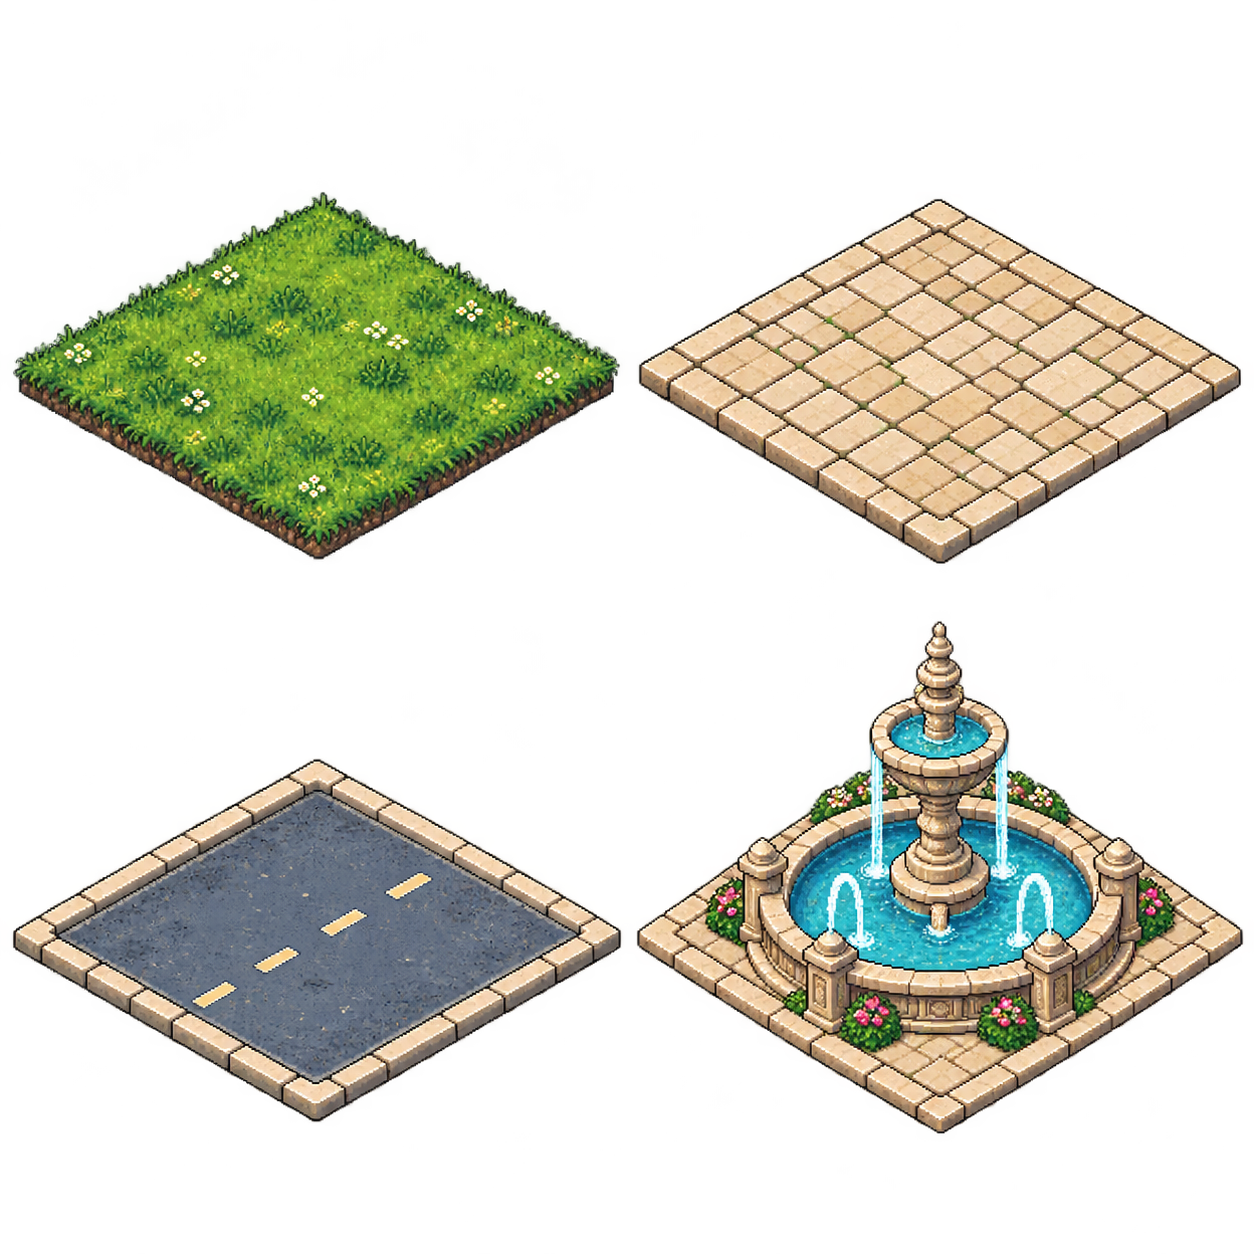
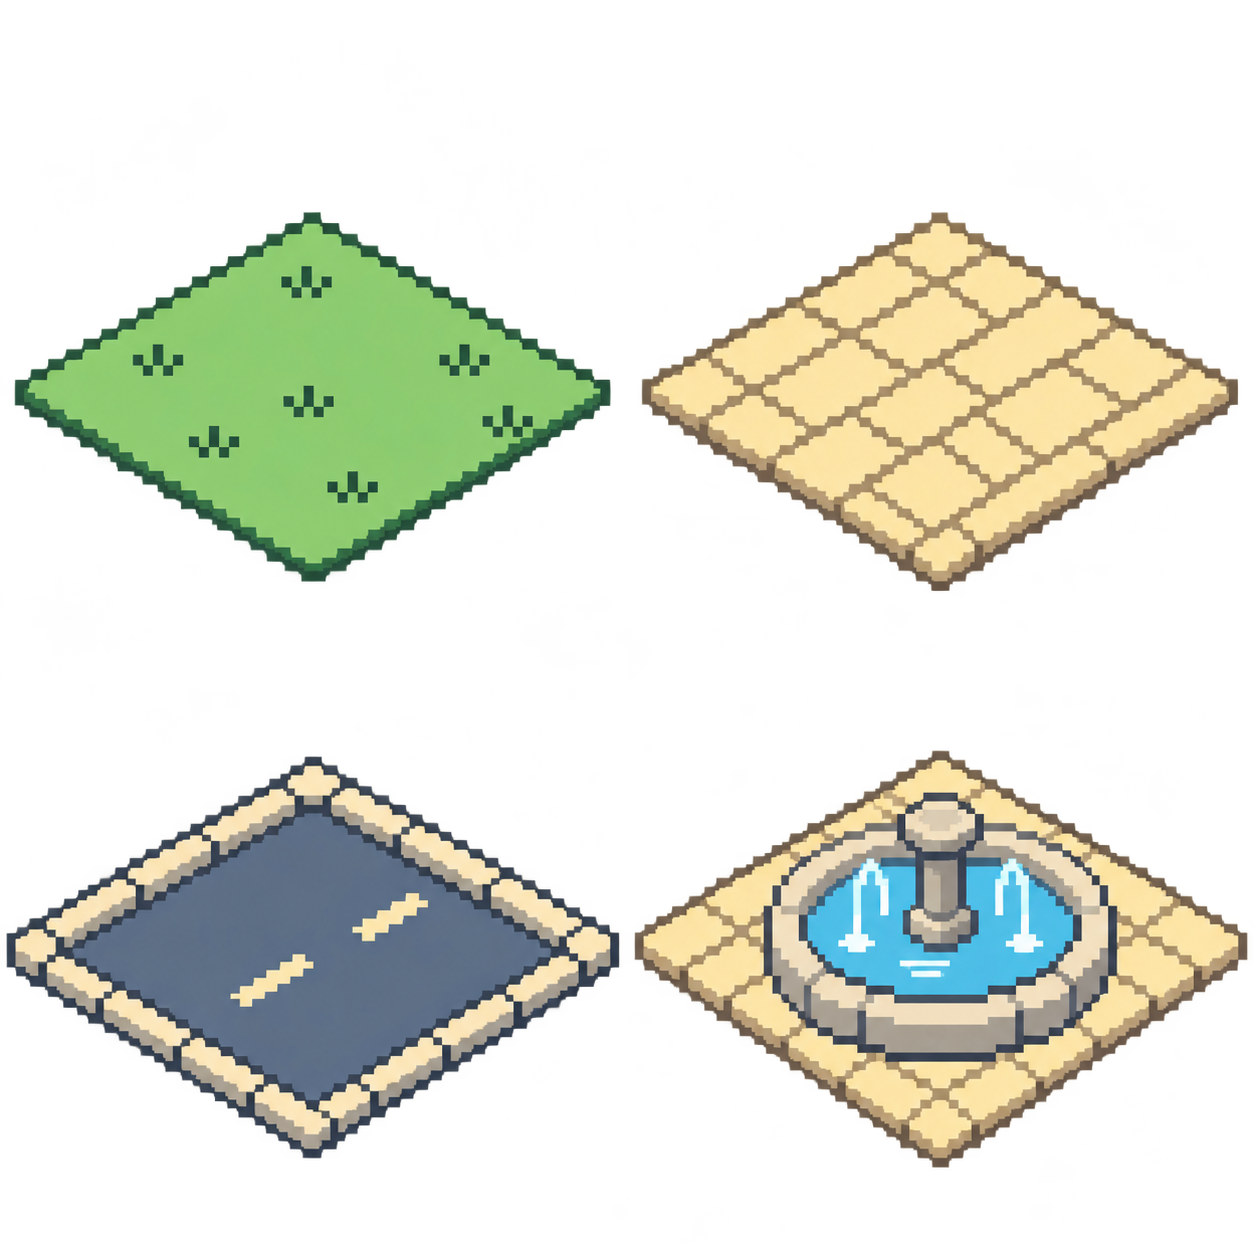
Simplify city artwork toward handheld RPG sprites (#6)

Changed region(s): [[0.0, 0.4976, 0.9952, 0.933], [0.0, 0.1555, 0.9952, 0.4665]]

diff --git a/public/atlas.js b/public/atlas.js
@@ -4,39 +4,39 @@ const staffAtlas=typeof Image==='undefined'?null:new Image();
 const groundAtlas=typeof Image==='undefined'?null:new Image();
 if(staffAtlas)staffAtlas.src='/assets/staff-atlas.png';
 if(groundAtlas)groundAtlas.src='/assets/ground-atlas.png';
-if (atlas) atlas.src = '/assets/city-atlas.png';
+if (atlas) atlas.src = '/assets/building-atlas.png';
+// Source bounds measured from the transparent atlases; generated art is not assumed
+// to stay inside equal cells. These rectangles prevent neighboring sprites bleeding.
+const STAFF_FRAMES=[
+ [78,59,187,289],[374,75,185,273],[688,51,183,298],[983,75,188,273],
+ [74,373,213,283],[370,381,204,275],[686,369,183,287],[988,374,178,282],
+ [60,671,201,280],[384,671,176,280],[680,671,191,280],[975,679,203,272],
+ [77,963,182,272],[372,962,219,273],[667,966,225,269],[988,964,182,271]
+];
+const BUILDING_FRAMES=[
+ [28,101,391,323],[467,110,404,317],[898,94,366,349],[1333,114,387,333],
+ [43,467,355,378],[470,467,341,378],[840,467,458,378],[1320,501,442,347]
+];
+function buildingIndex(o){return o.kind==='house'?Math.abs(o.x+o.y)%3:o.kind==='office'?4+Math.abs(o.x)%2:o.service==='university'?6:o.service==='talents'?3:7;}
+export function atlasBuildingHeight(o,width){const frame=BUILDING_FRAMES[buildingIndex(o)];return width*frame[3]/frame[2];}
 export function drawAtlasAgent(ctx, x, y, appearance, dir, walk, scale) {
   if(Number.isInteger(appearance.spriteIndex)&&staffAtlas?.complete&&staffAtlas.naturalWidth){
     // Cell zero is reserved exclusively for the human player's identity.
     const index=appearance.player?0:appearance.spriteIndex===0?15:Math.max(1,Math.min(15,appearance.spriteIndex));
-    const cw=staffAtlas.naturalWidth/4,ch=staffAtlas.naturalHeight/4;
+    const [sx,sy,sw,sh]=STAFF_FRAMES[index];
     const bob=walk?Math.sin(walk*Math.PI)*1.2*scale:0;
     ctx.save();ctx.imageSmoothingEnabled=false;ctx.translate(Math.round(x),Math.round(y+24*scale+bob));
     if(dir==='right')ctx.scale(-1,1);
-    ctx.drawImage(staffAtlas,(index%4)*cw,Math.floor(index/4)*ch,cw,ch,-24*scale,-52*scale,48*scale,52*scale);
+    ctx.drawImage(staffAtlas,sx,sy,sw,sh,-16*scale,-40*scale,32*scale,40*scale);
     ctx.restore();return true;
   }
-  if (!atlas?.complete || !atlas.naturalWidth) return false;
-  const row = Math.abs(Number(appearance.hair || 0) + Number(appearance.skinTone || 0)) % 6;
-  const frame = Math.abs(Math.floor(walk)) % 3;
-  const column = (dir === 'up' ? 6 : dir === 'left' || dir === 'right' ? 3 : 0) + frame;
-  const left = [80,230,380,530,680,830,1010,1160,1310][column];
-  ctx.save();
-  ctx.imageSmoothingEnabled = false;
-  ctx.translate(Math.round(x), Math.round(y + 24 * scale));
-  if (dir === 'right') ctx.scale(-1, 1);
-  ctx.drawImage(atlas, left, row * 106, 140, 106, -22 * scale, -48 * scale, 44 * scale, 48 * scale);
-  ctx.restore();
-  return true;
+  return false;
 }
+
 export function drawAtlasBuilding(ctx, o, center, width) {
   if (!atlas?.complete || !atlas.naturalWidth) return false;
-  const index = o.kind === 'house' ? Math.abs(o.x + o.y) % 3
-    : o.kind === 'office' ? 4 + Math.abs(o.x) % 2
-    : o.service === 'university' ? 6 : o.service === 'talents' ? 3 : 7;
-  const col = index % 4, row = Math.floor(index / 4);
-  const source = {x:80 + col * 350, y:row ? 814 : 630, w:330, h:row ? 210 : 198};
-  const height = width * source.h / source.w;
+  const [x,y,w,h]=BUILDING_FRAMES[buildingIndex(o)];
+  const source={x,y,w,h},height=atlasBuildingHeight(o,width);
   ctx.save();ctx.imageSmoothingEnabled = false;
   ctx.drawImage(atlas, source.x, source.y, source.w, source.h,
     Math.round(center.x - width / 2), Math.round(center.y - height + 10), Math.round(width), Math.round(height));
@@ -46,20 +46,19 @@ export function drawAtlasBuilding(ctx, o, center, width) {
 // Diamond textures are clipped to logical footprints, preventing gaps and overlap.
 export function drawAtlasGround(ctx,type,points,texturePoints=points){
  if(!groundAtlas?.complete||!groundAtlas.naturalWidth||!['grass','path'].includes(type))return false;
- const cw=groundAtlas.naturalWidth/2,ch=groundAtlas.naturalHeight/2;
- const col=type==='path'?1:0,row=type==='road'?1:0;
+ const source=type==='grass'?[175,310,260,180]:[642,212,596,379];
  const minX=Math.min(...texturePoints.map(p=>p.x)),maxX=Math.max(...texturePoints.map(p=>p.x));
  const minY=Math.min(...texturePoints.map(p=>p.y)),maxY=Math.max(...texturePoints.map(p=>p.y));
  ctx.save();ctx.beginPath();ctx.moveTo(points[0].x,points[0].y);for(const p of points.slice(1))ctx.lineTo(p.x,p.y);ctx.closePath();ctx.clip();
  ctx.imageSmoothingEnabled=false;
- // The generated diamonds occupy x=1..99%, y=30..89% of each source cell.
- ctx.drawImage(groundAtlas,col*cw+cw*.01,row*ch+ch*.30,cw*.98,ch*.59,minX-1,minY-1,maxX-minX+2,maxY-minY+2);
+ // Grass uses the seamless interior of its texture, avoiding dark patch borders.
+ ctx.drawImage(groundAtlas,...source,minX-1,minY-1,maxX-minX+2,maxY-minY+2);
  ctx.restore();return true;
 }
 export function drawAtlasFountain(ctx,center,width){
  if(!groundAtlas?.complete||!groundAtlas.naturalWidth)return false;
- const cw=groundAtlas.naturalWidth/2,ch=groundAtlas.naturalHeight/2,height=width*.87;
+ const height=width*417/613;
  ctx.save();ctx.imageSmoothingEnabled=false;
- ctx.drawImage(groundAtlas,cw,ch,cw,ch,center.x-width/2,center.y-height+width*.25,width,height);
+ ctx.drawImage(groundAtlas,635,751,613,417,center.x-width/2,center.y-height+width*.25,width,height);
  ctx.restore();return true;
 }

diff --git a/public/isometric.js b/public/isometric.js
@@ -1,4 +1,4 @@
-import {drawAtlasBuilding,drawAtlasGround,drawAtlasFountain} from './atlas.js';
+import {drawAtlasBuilding,drawAtlasGround,drawAtlasFountain,atlasBuildingHeight} from './atlas.js';
 // SanTTos Agent City — projeção isométrica original 2:1.
 // O tile lógico agora é 68 × 52; o mapa do editor e as salas 2D são preservados.
 export const ISO={tileWidth:34,tileHeight:17,originX:530,originY:92};
@@ -10,7 +10,7 @@ function pointInside(poly_,p){let inside=false;for(let i=0,j=poly_.length-1;i<po
 export function hitIsoObject(objects,px,py){
   // Primeiro os mais à frente; permite clicar no telhado e fachada, além do tile de base.
   for(const o of [...objects].sort((a,b)=>(b.x+b.y+b.w+b.h)-(a.x+a.y+a.w+a.h))){
-    const height=o.kind==='service'?Math.max(115,(o.w+o.h)*ISO.tileWidth/2*.64):o.kind==='office'?Math.max(95,(o.w+o.h)*ISO.tileWidth/2*.64):o.kind==='house'?Math.max(80,(o.w+o.h)*ISO.tileWidth/2*.60):o.kind==='tree'?37:o.kind==='lamp'?25:0;
+    const height=o.kind==='service'?Math.max(115,(o.w+o.h)*ISO.tileWidth/2*.90):o.kind==='office'?Math.max(95,(o.w+o.h)*ISO.tileWidth/2*1.10):o.kind==='house'?Math.max(80,(o.w+o.h)*ISO.tileWidth/2*.78):o.kind==='tree'?37:o.kind==='lamp'?25:0;
     const foot=quad(o.x,o.y,o.w,o.h),roof=quad(o.x,o.y,o.w,o.h,height);
     const center=projectIso(o.x+o.w/2,o.y+o.h/2);
     const region=[roof[0],roof[1],foot[1],foot[2],foot[3],roof[3]];
@@ -73,7 +73,7 @@ function frontDoor(ctx,o,z,accent){
  const step=projectIso(o.x+o.w*.57,o.y+o.h+0.15);poly(ctx,[{x:step.x-17,y:step.y},{x:step.x,y:step.y-5},{x:step.x+18,y:step.y},{x:step.x,y:step.y+5}],'#c6b2a0');
 }
 function drawBuilding(ctx,o,count){
- if(drawAtlasBuilding(ctx,o,projectIso(o.x+o.w/2,o.y+o.h/2),(o.w+o.h)*ISO.tileWidth/2+20)){signBoard(ctx,o,95,count);return;}
+ if(drawAtlasBuilding(ctx,o,projectIso(o.x+o.w/2,o.y+o.h/2),(o.w+o.h)*ISO.tileWidth/2+20)){signBoard(ctx,o,atlasBuildingHeight(o,(o.w+o.h)*ISO.tileWidth/2+20)-12,count);return;}
  const z=62,base=quad(o.x,o.y,o.w,o.h),top=quad(o.x,o.y,o.w,o.h,z);
  poly(ctx,[top[1],top[2],base[2],base[1]],'#c4cbbf','#718b8d');poly(ctx,[top[2],top[3],base[3],base[2]],'#eae3ce','#a9ac98');
  const styles={tv:['#a94b71','#e47990'],radar:['#487fa3','#6bb7c8'],office:['#7a66aa','#b5a0d4'],media:['#bc754e','#eab074'],chat:['#58a09d','#8bcfc0']};
@@ -115,7 +115,7 @@ function drawHouse(ctx,o){
 }
 const SERVICE_STYLES={cityhall:{walls:['#d6c9b3','#f2e9d5'],roof:['#62558c','#a08fbb'],label:'PREFEITURA',symbol:'★'},library:{walls:['#cfb99e','#f8dfbb'],roof:['#795b9e','#c5a3dd'],label:'BIBLIOTECA',symbol:'▤'},university:{walls:['#c6d6d3','#e8f5dc'],roof:['#547fa4','#91bfd7'],label:'UNIVERSIDADE',symbol:'✦'},police:{walls:['#afc4d8','#e6f0ee'],roof:['#405f9e','#8ab5e1'],label:'POLÍCIA',symbol:'◆'},talents:{walls:['#d7c4d7','#f8e1e4'],roof:['#a35c92','#e3a1c8'],label:'TALENTOS',symbol:'✧'}};
 function drawService(ctx,o){
- if(drawAtlasBuilding(ctx,o,projectIso(o.x+o.w/2,o.y+o.h/2),(o.w+o.h)*ISO.tileWidth/2+20)){signBoard(ctx,o,115,false);return;}
+ if(drawAtlasBuilding(ctx,o,projectIso(o.x+o.w/2,o.y+o.h/2),(o.w+o.h)*ISO.tileWidth/2+20)){signBoard(ctx,o,atlasBuildingHeight(o,(o.w+o.h)*ISO.tileWidth/2+20)-12,false);return;}
  const style=SERVICE_STYLES[o.service]||SERVICE_STYLES.cityhall,z=77,f=quad(o.x,o.y,o.w,o.h),r=quad(o.x,o.y,o.w,o.h,z);
  poly(ctx,[r[1],r[2],f[2],f[1]],style.walls[0],'#7d7985');poly(ctx,[r[2],r[3],f[3],f[2]],style.walls[1],'#8c8a8b');decorativeRoof(ctx,o,z,...style.roof,'#544b6c');
  wallWindows(ctx,f[1],f[2],z,Math.max(2,Math.floor(o.h/1.4)),'#b5e7ed');wallWindows(ctx,f[3],f[2],z,Math.max(2,Math.floor(o.w/1.4)),'#b2dcea');frontDoor(ctx,o,z,'#547c9e');

diff --git a/public/index.html b/public/index.html
@@ -1,12 +1,12 @@
 <!doctype html>
 <html lang="pt-BR"><head>
 <meta charset="utf-8"><meta name="viewport" content="width=device-width,initial-scale=1">
-<title>SanTTos Agent City • Isometric City v0.7</title>
+<title>SanTTos Agent City • Isometric City v0.7.1</title>
 <link rel="icon" href="/favicon.svg" type="image/svg+xml">
 <link rel="stylesheet" href="/style.css">
 </head><body>
 <header class="topbar">
-  <div class="brand"><div class="brand-glyph">S</div><div><b>SanTTos <em>AGENT CITY</em></b><small>ISOMETRIC / v0.7</small></div></div>
+  <div class="brand"><div class="brand-glyph">S</div><div><b>SanTTos <em>AGENT CITY</em></b><small>ISOMETRIC / v0.7.1</small></div></div>
   <div class="topcenter"><span class="light"></span><span id="githubTopStatus">GITHUB NÃO CONECTADO</span><i></i><span id="counterBuildings">05 PRÉDIOS</span><i></i><span id="counterMissions">00 MISSÕES</span></div>
   <div class="actions"><button id="btnProjects" class="navbtn">▣ PROJETOS</button><button id="btnServices" class="navbtn">♛ INSTITUIÇÕES</button><button id="btnManagement" class="navbtn">☰ MISSÕES</button><button id="btnWorld" class="navbtn active">◈ CIDADE</button><button id="btnEditor" class="navbtn">✎ CONSTRUIR</button></div>
 </header>

diff --git a/public/institutions.js b/public/institutions.js
@@ -14,7 +14,7 @@ const getActive=j=>j.connected&&['running','waiting'].includes(j.status);
 const DEPARTMENTS=[['cityhall','Prefeitura'],['police','Delegacia'],['library','Biblioteca'],['university','Universidade'],['talents','Central de Talentos'],['office','Escritórios de projetos']];
 function container(service,context){
  const [emoji,title,subtitle]=SERVICES[service]||['⌂','SAN TTOS','Cidade dos agentes'];
- const root=$('serviceContent');clear(root);root.append(element('span','AGENT CITY · V0.7','civic-eyebrow'));
+ const root=$('serviceContent');clear(root);root.append(element('span','AGENT CITY · V0.7.1','civic-eyebrow'));
  const h=element('h2',emoji+'  '+title);root.append(h,element('p',subtitle,'civic-subtitle'));
  const inner=element('div',null,'civic-body');root.append(inner);$('serviceModal').classList.remove('hidden');return inner;
 }

diff --git a/README.md b/README.md
@@ -1,4 +1,4 @@
-# SanTTos Agent City v0.7 — Equipes de projeto e personagens da cidade
+# SanTTos Agent City v0.7.1 — Equipes de projeto e personagens da cidade
 
 Aplicação **local** em Node.js 20+, interface em português. Casas, cidade isométrica e interiores visitáveis. Código publicado para desenvolvimento colaborativo; não usa artes oficiais de Pokémon.
 
@@ -43,7 +43,7 @@ As rondas do Pesquisador (aproximadamente **a cada 30 minutos**) e da Polícia (
 
 ## Atualização visual e diagnóstico
 
-Personagens usam seis skins animadas em pixel art; casas, escritórios e instituições usam um atlas original isométrico em `public/assets/city-atlas.png`. A arte gerada foi inspirada nas referências fornecidas, sem reutilizar os arquivos de referência. O desenho procedural permanece como alternativa durante o carregamento do atlas.
+Personagens usam seis skins animadas em pixel art; casas, escritórios e instituições usam um atlas original isométrico em `public/assets/building-atlas.png`. A arte gerada foi inspirada nas referências fornecidas, sem reutilizar os arquivos de referência. O desenho procedural permanece como alternativa durante o carregamento do atlas.
 
 Falhas no carregamento dos módulos e no desenho agora aparecem na tela com indicação para consultar F12. Uma falha de desenho não encerra permanentemente a animação. Isso ajuda a diagnosticar a tela verde; a causa específica no computador do usuário ainda precisa ser confirmada.
 
@@ -52,3 +52,7 @@ No Windows, extraia a atualização numa pasta nova, feche o servidor antigo e e
 Os testes executam sequencialmente porque compartilham `data/civic.json`. Para a regressão visual opcional, com Playwright e Chromium disponíveis e o servidor iniciado, execute `node scripts/browser-smoke.cjs` (defina `CHROMIUM_PATH` se necessário). Essas ferramentas não são necessárias para executar a aplicação.
 
 Com Playwright e Chromium disponíveis, `node scripts/city-behavior-smoke.cjs` verifica entrada por proximidade, agentes em missão no interior, salas por função e interações individuais dos funcionários. Usa respostas simuladas de API e não executa missões de IA.
+
+## Revisão visual v0.7.1
+
+Direção de arte inspirada nos sprites de mapa dos RPGs portáteis de 16 bits: personagens compactos com olhos simples, fachadas limpas, telhados com poucas cores, grama sem ruído e uma fonte menor. A cidade continua isométrica e as identidades e funções foram preservadas. Toda a arte é original; não contém personagens, logotipos ou sprites oficiais de Pokémon.
